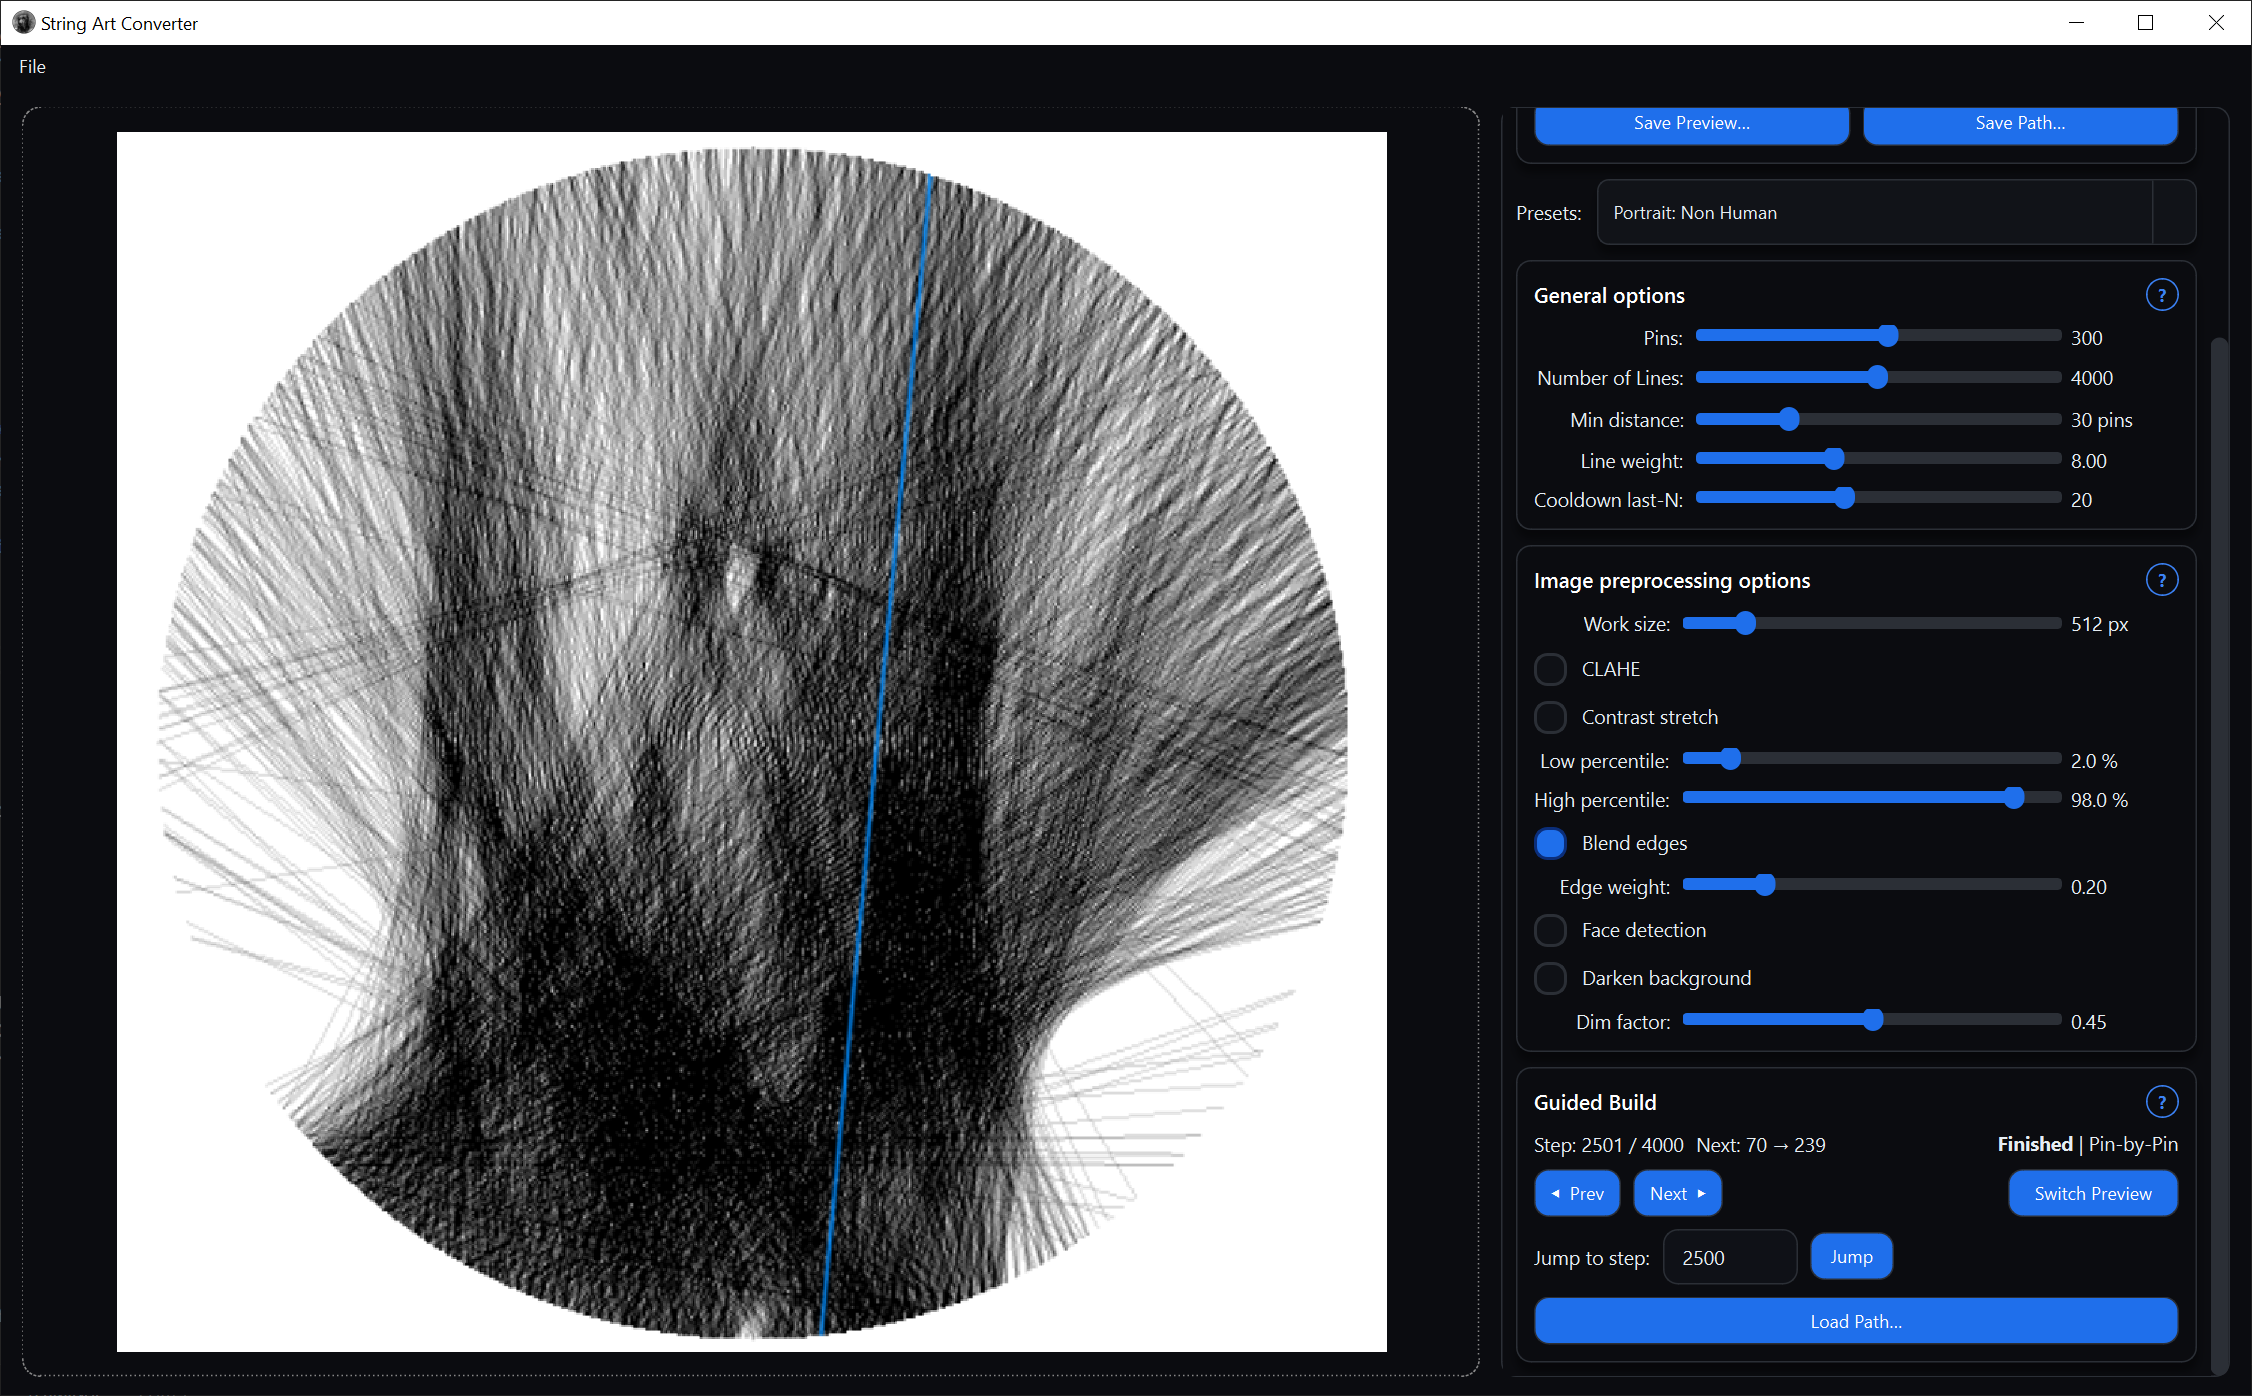
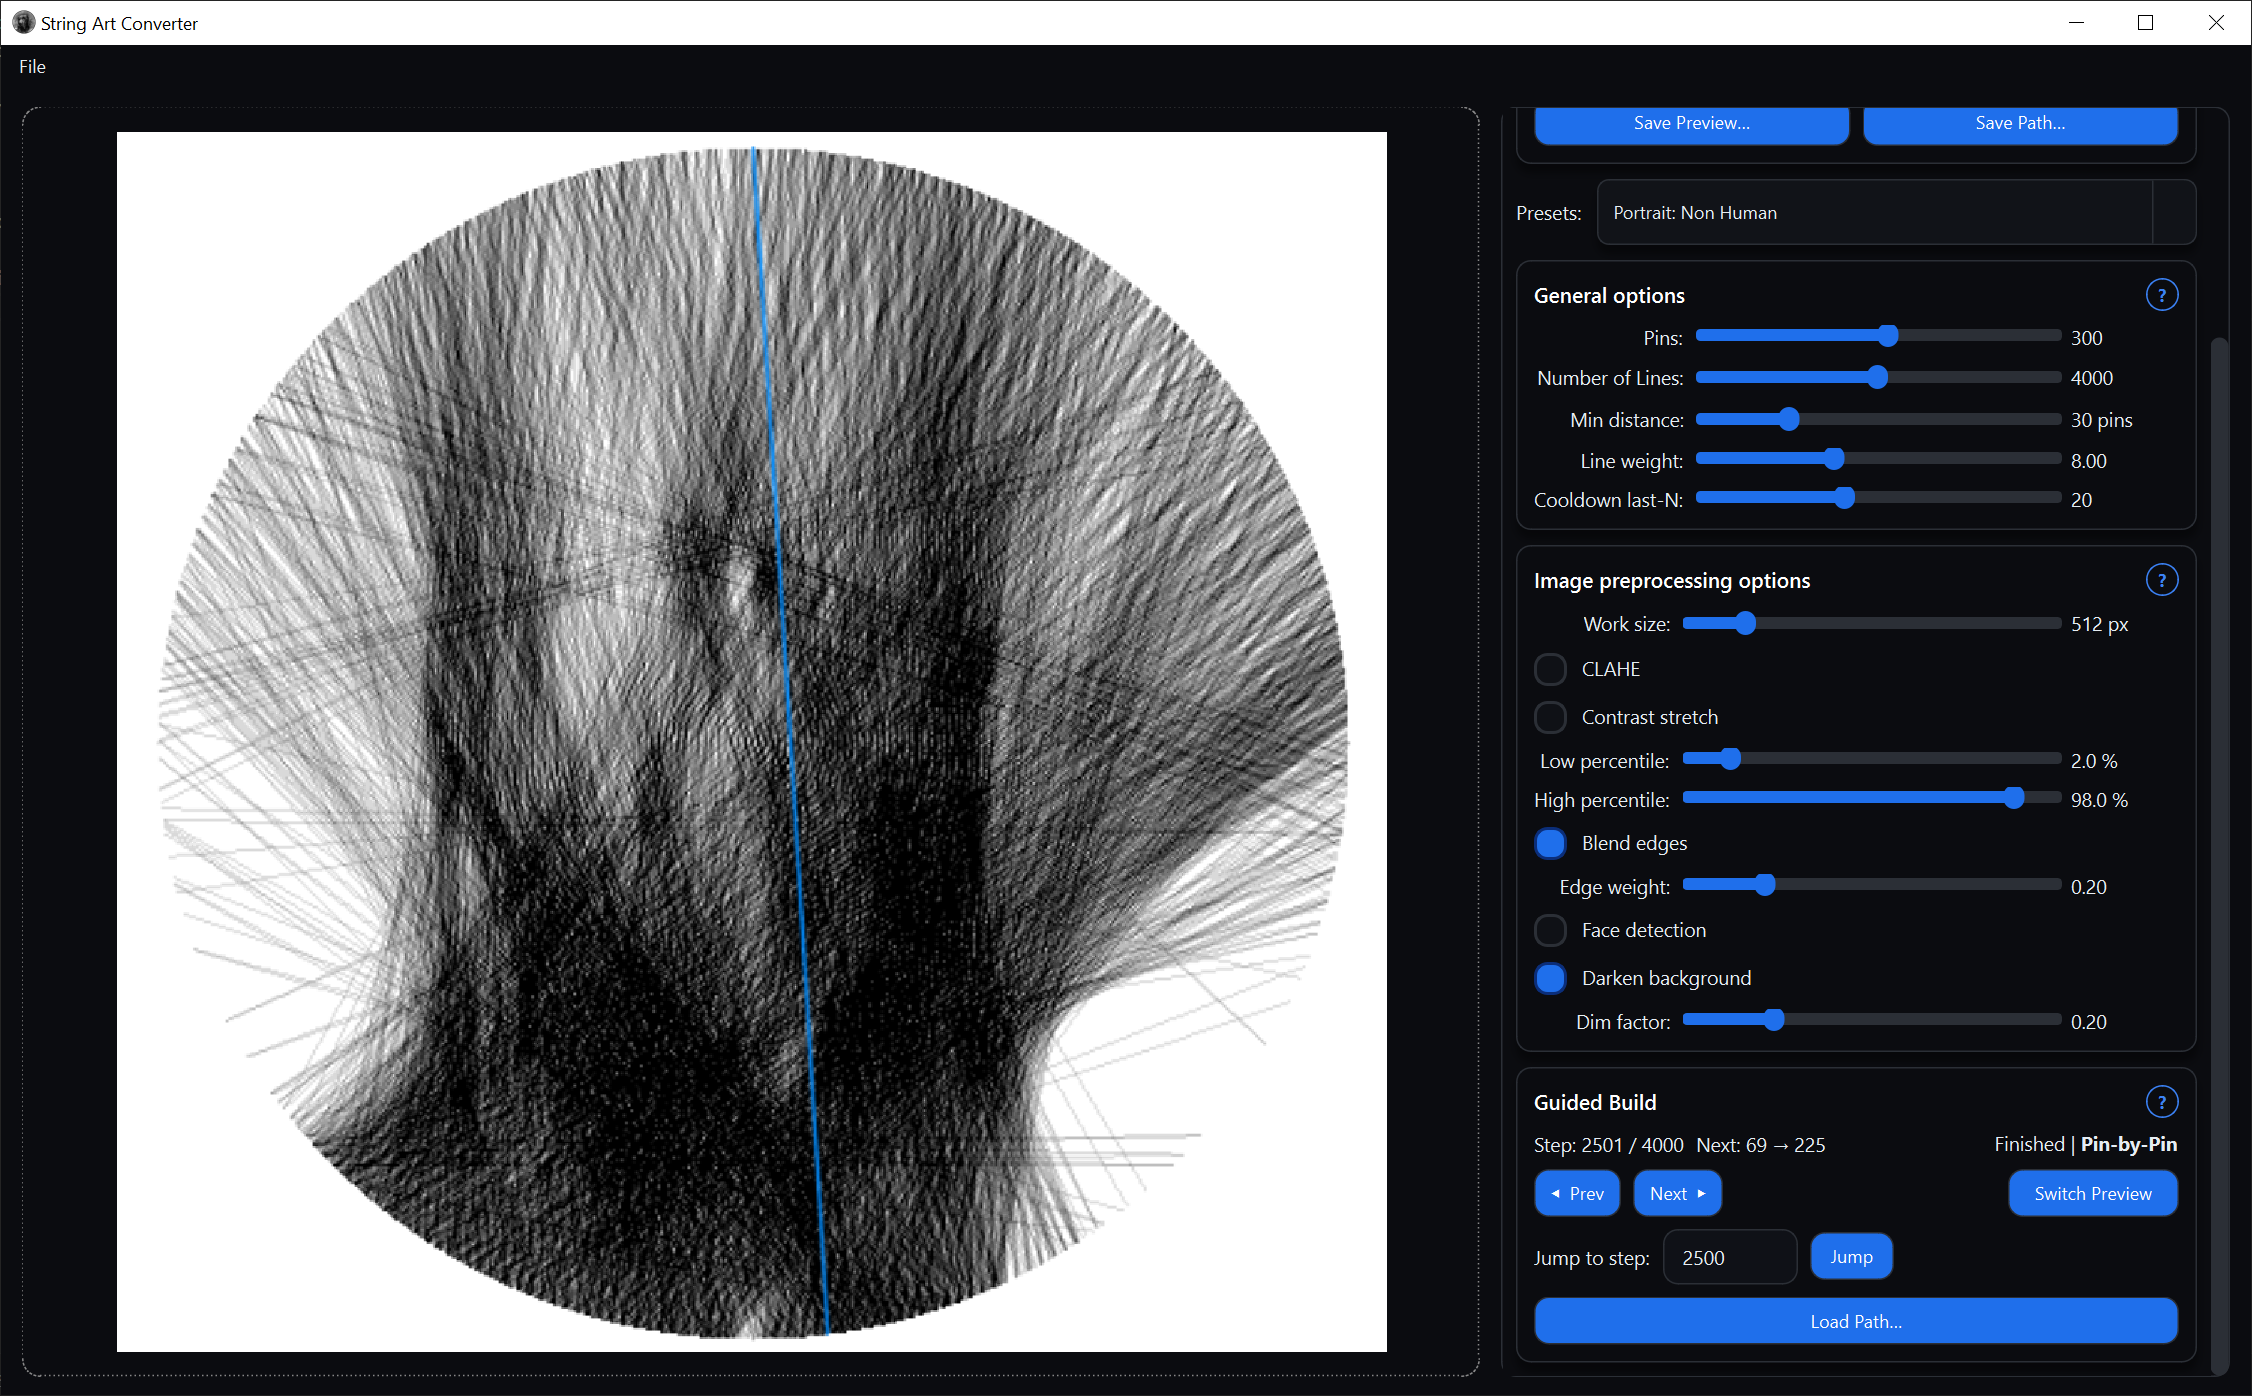
update

diff --git a/StringArtConverter/UI/main_window.py b/StringArtConverter/UI/main_window.py
@@ -772,6 +772,7 @@ class MainWindow(QMainWindow):
         if v != self.guided_index:
             self.guided_index = v
             self._render_guided()
+            self.lbl_switch.setText('Finished | <span style="font-weight:bold;">Pin-by-Pin</span>')
         else:
             self._update_step_label()
 

diff --git a/readMe.md b/readMe.md
@@ -28,9 +28,17 @@ Load a photo, preprocess and generate a sequence of nail-to-nail lines.
 ## Pin-by-pin
 
 You can save/load your generated path and from that start a guided session. 
+<br><br>
 This session shows, which pin connection is the one you need to do next and gives a preview with the current step marked in blue.
 
-![UI while in pin-to-pin mode](https://github.com/Benedikt-K/StringArtConverter/tree/main/assets/pin-by-pin.png "screenshot")
+<table>
+  <tr>
+    <td><img src="assets/pin-by-pin.png" alt="screenshot while in pin-by-pin" width="1000"></td>
+  </tr>
+  <tr>
+    <td align="center"><em>UI while in pin-to-pin mode</em></td>
+  </tr>
+</table>
 
 # Quick start
 
